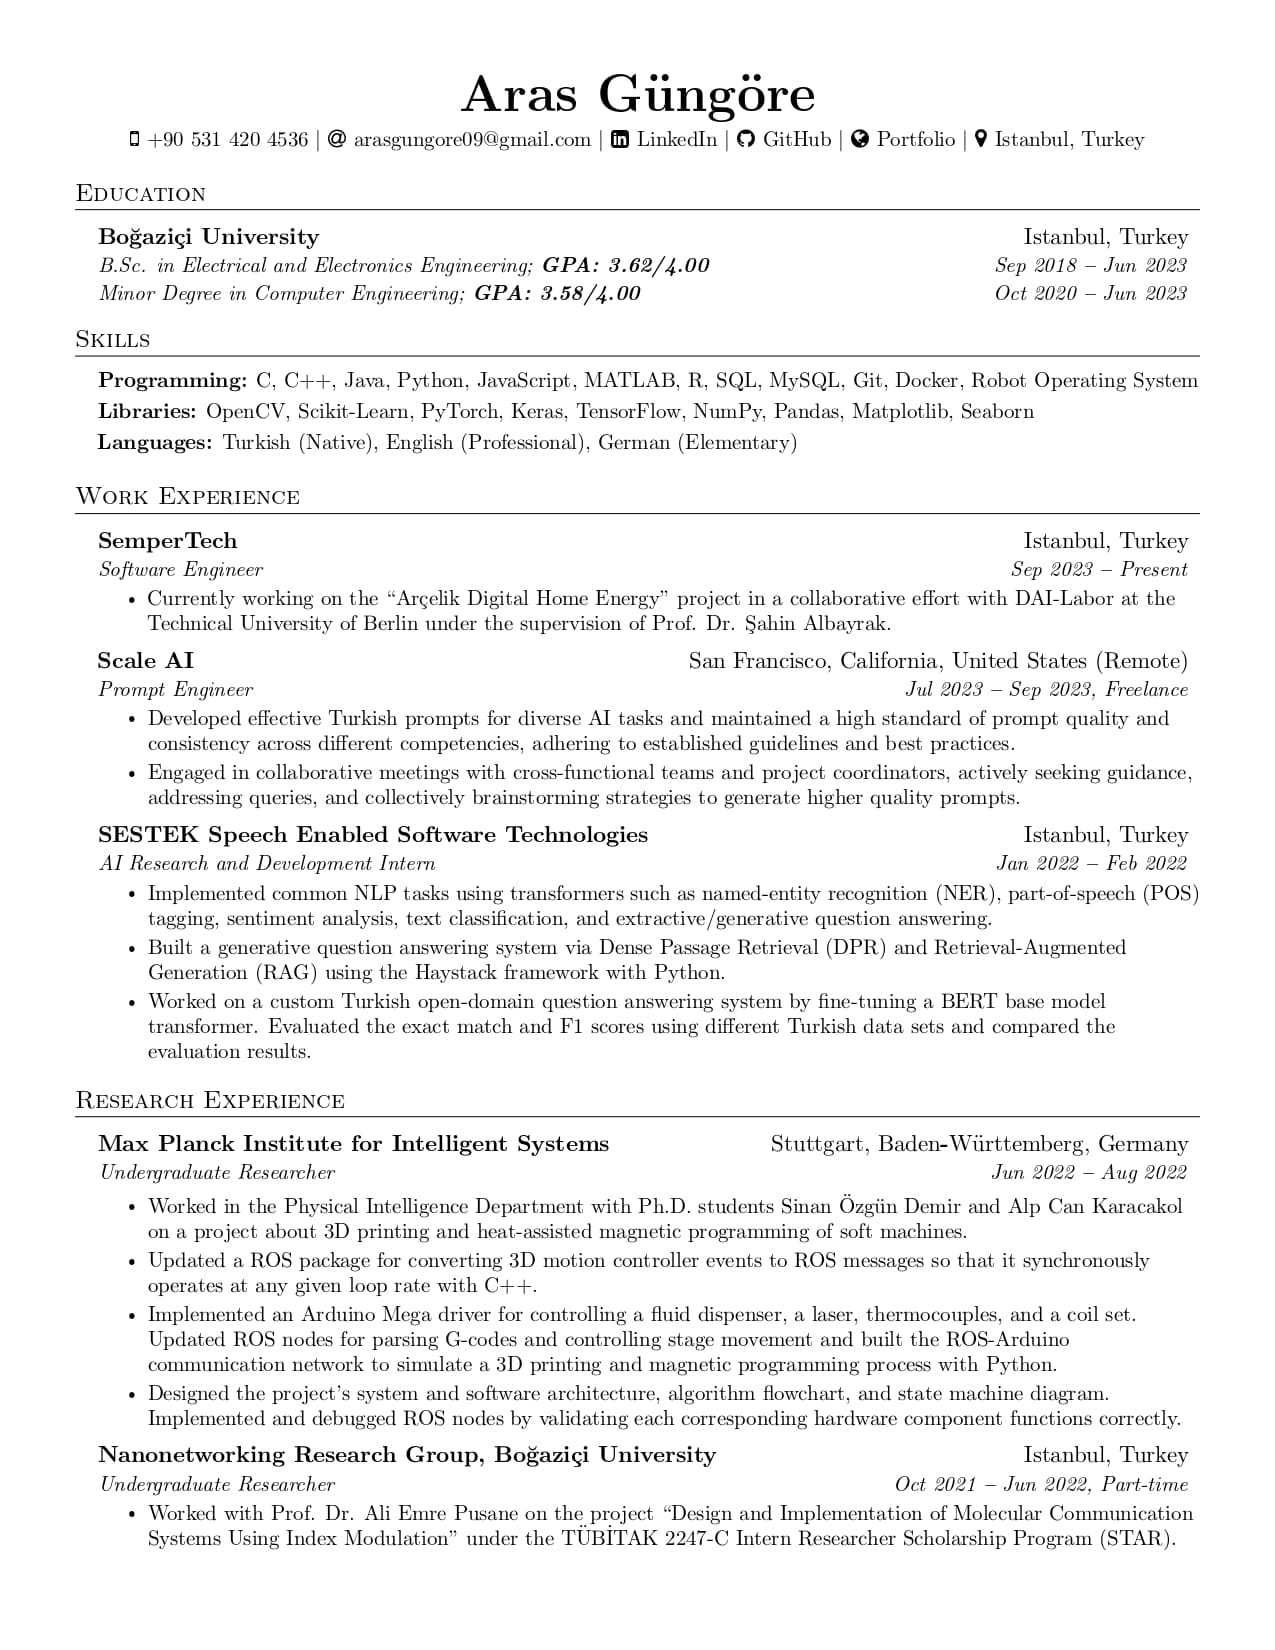
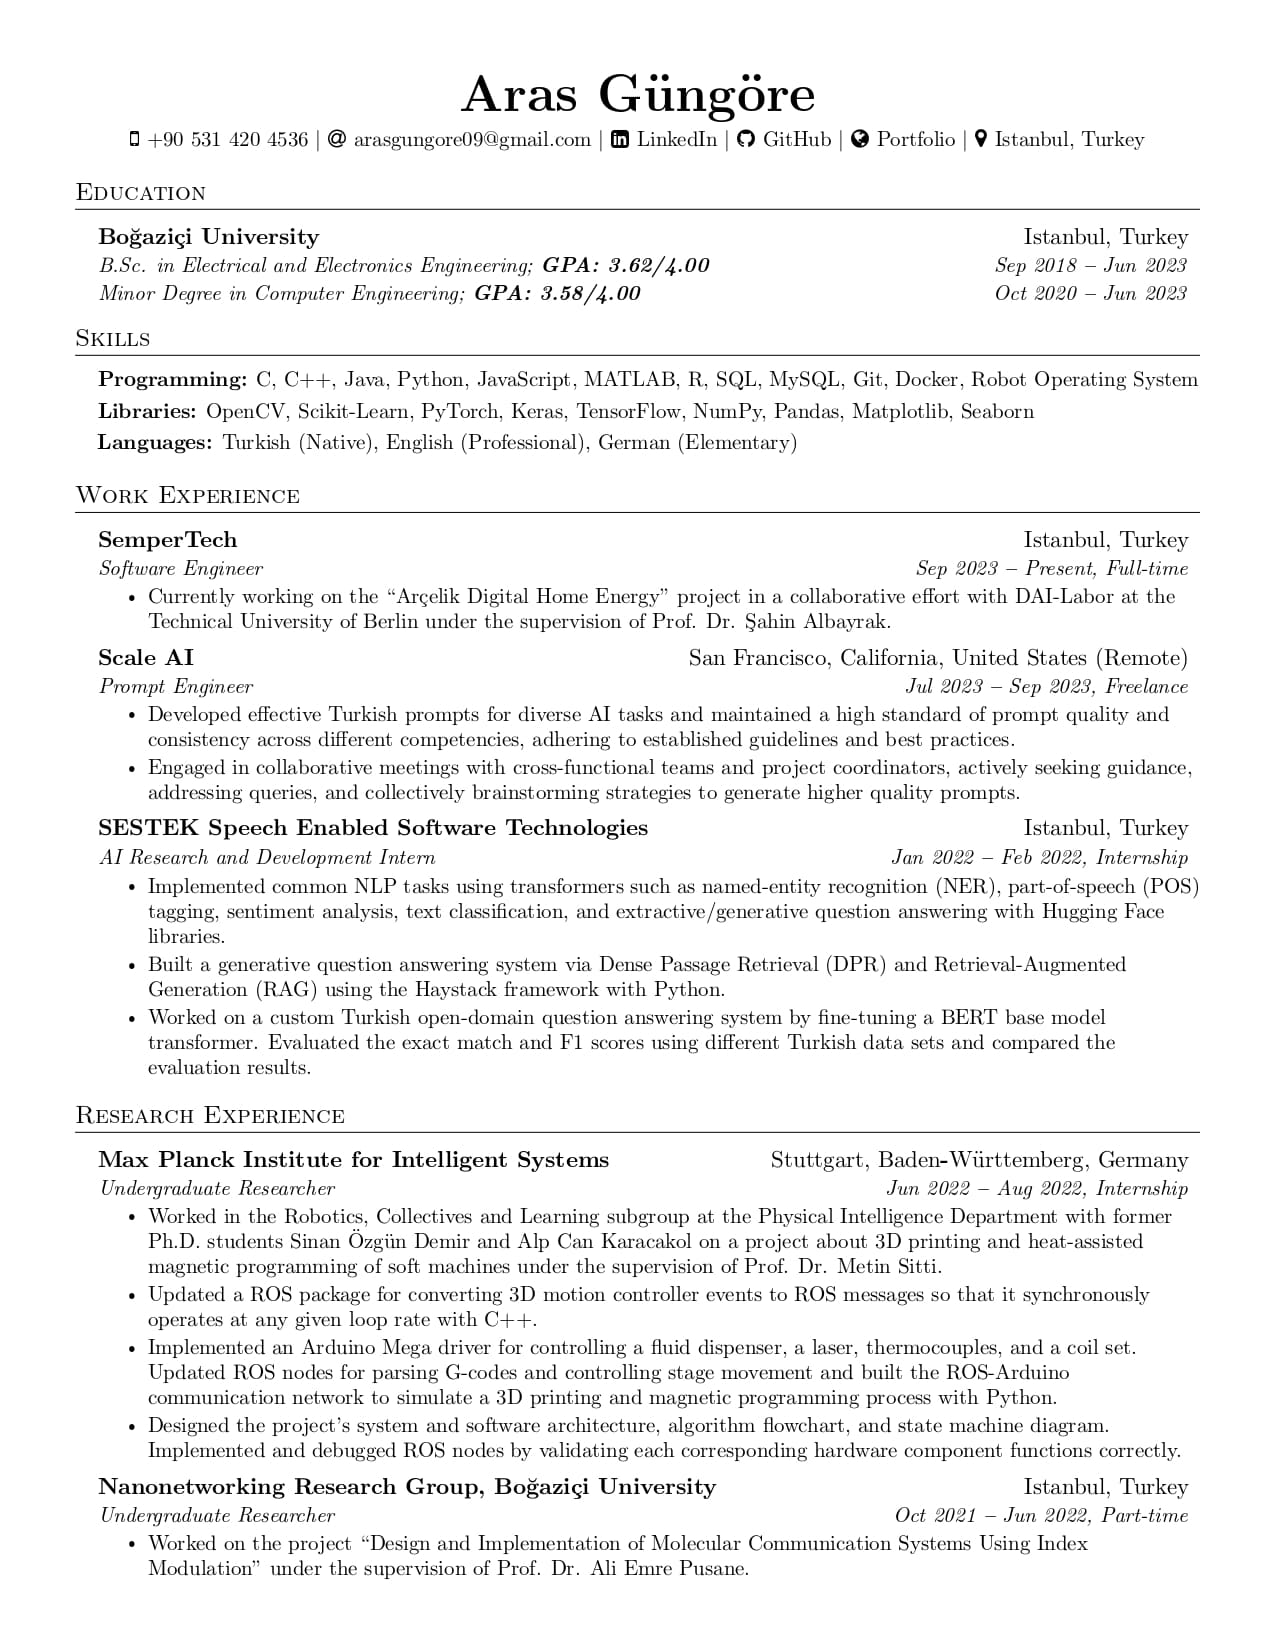
Updated CV

diff --git a/main.tex b/main.tex
@@ -205,7 +205,7 @@
 
     \resumeSubheading
       {SemperTech}{Istanbul, Turkey}
-      {Software Engineer}{Sep 2023 \textbf{--} Present}
+      {Software Engineer}{Sep 2023 \textbf{--} Present, Full-time}
         \resumeItemListStart
             \resumeItem{Currently working on the “Arçelik Digital Home Energy” project in a collaborative effort with DAI-Labor at the Technical University of Berlin under the supervision of Prof. Dr. Şahin Albayrak.}
         \resumeItemListEnd
@@ -221,16 +221,16 @@
     
     \resumeSubheading
       {SESTEK Speech Enabled Software Technologies}{Istanbul, Turkey}
-      {AI Research and Development Intern}{Jan 2022 \textbf{--} Feb 2022}
+      {AI Research and Development Intern}{Jan 2022 \textbf{--} Feb 2022, Internship}
         \resumeItemListStart
-            \resumeItem{Implemented common NLP tasks using transformers such as named-entity recognition (NER), part-of-speech (POS) tagging, sentiment analysis, text classification, and extractive/generative question answering.}
+            \resumeItem{Implemented common NLP tasks using transformers such as named-entity recognition (NER), part-of-speech (POS) tagging, sentiment analysis, text classification, and extractive/generative question answering with Hugging Face libraries.}
             \resumeItem{Built a generative question answering system via Dense Passage Retrieval (DPR) and Retrieval-Augmented Generation (RAG) using the Haystack framework with Python.}
             \resumeItem{Worked on a custom Turkish open-domain question answering system by fine-tuning a BERT base model transformer. Evaluated the exact match and F1 scores using different Turkish data sets and compared the evaluation results.}
         \resumeItemListEnd
     
     % \resumeSubheading
       % {Ankara Metropolitan Municipality}{Ankara, Turkey}
-      % {SCADA Engineering Intern}{Aug 2021 \textbf{--} Sep 2021}
+      % {SCADA Engineering Intern}{Aug 2021 \textbf{--} Sep 2021, Internship}
         % \resumeItemListStart
             % \resumeItem{Designed GSM/GPRS-based electrical control panels that are connected to local water pump automation systems. Pump station panels use digital output data received from the SCADA control center via RF transmission to control valves and pumps. Tank station panels are charged from the PV system and refill water tanks by signaling the pump station panel when the float switch is activated.}
             % \resumeItem{Implemented motor control circuits by reading their PLC ladder diagrams and analyzed the EPLAN project documentation, HMI, and hardware components of an RTU panel.}
@@ -239,9 +239,9 @@
     % \vspace{15pt}
     % \resumeSubheading
       % {Meteksan Defense Industry Inc.}{Ankara, Turkey}
-      % {Analog Design Engineering Intern}{Jul 2021 \textbf{--} Aug 2021}
+      % {Analog Design Engineering Intern}{Jul 2021 \textbf{--} Aug 2021, Internship}
         % \resumeItemListStart
-            % \resumeItem{Designed numerous analog circuits such as voltage-mode controlled buck converter, phase-shifted full-bridge isolated DC-DC converter, and EMI filters with LTspice. Integrated these circuits and implemented a 320 W power distribution unit to be used in a radar system's power circuit board.}
+            % \resumeItem{Designed and simulated numerous analog circuits such as voltage-mode controlled buck converter, phase-shifted full-bridge isolated DC-DC converter, and EMI filters with LTspice. Integrated these circuits and implemented a 320 W power distribution unit to be used in a radar system's power circuit board.}
             % \resumeItem{Researched real-world compatible electronic components to be used in such circuits including GaNFETs, high-side gate drivers, and Schottky diodes.}
             % \resumeItem{Assembled PCBs of both common and differential mode filters and used VNA Bode 100 to measure the cut-off frequencies.}
         % \resumeItemListEnd
@@ -258,9 +258,9 @@
   
     \resumeSubheading
       {Max Planck Institute for Intelligent Systems}{Stuttgart, Baden\textbf{-}Württemberg, Germany}
-      {Undergraduate Researcher}{Jun 2022 \textbf{--} Aug 2022}
+      {Undergraduate Researcher}{Jun 2022 \textbf{--} Aug 2022, Internship}
         \resumeItemListStart
-            \resumeItem{Worked in the Physical Intelligence Department with Ph.D. students Sinan Özgün Demir and Alp Can Karacakol on a project about 3D printing and heat-assisted magnetic programming of soft machines.}
+            \resumeItem{Worked in the Robotics, Collectives and Learning subgroup at the Physical Intelligence Department with former Ph.D. students Sinan Özgün Demir and Alp Can Karacakol on a project about 3D printing and heat-assisted magnetic programming of soft machines under the supervision of Prof. Dr. Metin Sitti.}
             \resumeItem{Updated a ROS package for converting 3D motion controller events to ROS messages so that it synchronously operates at any given loop rate with C++.}
             \resumeItem{Implemented an Arduino Mega driver for controlling a fluid dispenser, a laser, thermocouples, and a coil set. Updated ROS nodes for parsing G-codes and controlling stage movement and built the ROS-Arduino communication network to simulate a 3D printing and magnetic programming process with Python.}
             \resumeItem{Designed the project's system and software architecture, algorithm flowchart, and state machine diagram. Implemented and debugged ROS nodes by validating each corresponding hardware component functions correctly.}
@@ -272,8 +272,8 @@
       {Nanonetworking Research Group, Boğaziçi University}{Istanbul, Turkey}
       {Undergraduate Researcher}{Oct 2021 \textbf{--} Jun 2022, Part-time}
         \resumeItemListStart
-            \resumeItem{Worked with Prof. Dr. Ali Emre Pusane on the project “Design and Implementation of Molecular Communication Systems Using Index Modulation” under the TÜBİTAK 2247-C Intern Researcher Scholarship Program (STAR).}
-            \resumeItem{Simulated the Brownian motion of molecules in a SISO MCvD system and predicted simulation parameters such as receiver radius, diffusion coefficient, and transmitter-receiver distance using CNNs with Python.}
+            \resumeItem{Worked on the project “Design and Implementation of Molecular Communication Systems Using Index Modulation” under the supervision of Prof. Dr. Ali Emre Pusane.}
+            \resumeItem{Simulated the Brownian motion of molecules in a SISO MCvD system and predicted simulation parameters such as receiver radius, diffusion coefficient, and transmitter-receiver distance using CNNs with Keras and TensorFlow.}
             \resumeItem{Plotted the arrival of molecules per symbol duration in a SISO MCvD system using Binomial, Poisson, and Gaussian model approximations with MATLAB.}
             \resumeItem{Ran Monte Carlo simulations of the Gaussian model to encode/decode randomized binary sequences in a SISO MCvD system using BCSK modulation technique and calculated the bit error rate (BER) on Z-channel.}
         \resumeItemListEnd
@@ -288,15 +288,15 @@
   \vspace{2pt}
   \resumeSubHeadingListStart
     \small{\item{
-        \textbf{High Honors Degree:}{ Awarded to Bachelor alumni who have graduated with a GPA greater than or equal to 3.50 by Boğaziçi University.} \\ \vspace{3pt}
+        \textbf{High Honors Degree:}{ Awarded to Bachelor alumni who have graduated with a GPA greater than or equal to 3.50 by Boğaziçi University. (Jul 2023)} \\ \vspace{3pt}
+
+        \textbf{TÜBİTAK 2247-C Intern Researcher Scholarship:}{ Awarded to undergraduate students who take part in research projects carried out by the Scientific and Technological Research Council of Turkey (TÜBİTAK). (Dec 2021 \textbf{--} Jun 2022)} \\ \vspace{3pt}
     
-        \textbf{National University Admission Exam (YKS):}{ Ranked $75^{th}$ in Mathematics and Science among ca. 2.3 million candidates with a test score of 489.92/500.} \\ \vspace{3pt}
+        \textbf{National University Admission Exam (YKS):}{ Ranked $75^{th}$ in Mathematics and Science among ca. 2.3 million candidates with a test score of 489.92/500. (Jul 2018)} \\ \vspace{3pt}
         
-        \textbf{KYK Outstanding Success Scholarship:}{ Awarded to undergraduate students who have been ranked in the top 100 on National University Admission Exam by Higher Education Credit and Hostels Institution (KYK).} \\ \vspace{3pt}
+        \textbf{KYK Outstanding Success Scholarship:}{ Awarded to undergraduate students who have been ranked in the top 100 on National University Admission Exam by Higher Education Credit and Hostels Institution (KYK). (Sep 2018 \textbf{--} Jun 2023)} \\ \vspace{3pt}
         
-        \textbf{Boğaziçi University Success Scholarship:}{ Awarded to undergraduate students who have been ranked in the top 100 on National University Admission Exam by Boğaziçi University.} \\ \vspace{3pt}
-        
-        \textbf{TÜBİTAK 2247-C Intern Researcher Scholarship:}{ Awarded to undergraduate students who take part in research projects carried out by the Scientific and Technological Research Council of Turkey (TÜBİTAK).} \\ \vspace{3pt}
+        \textbf{Boğaziçi University Success Scholarship:}{ Awarded to undergraduate students who have been ranked in the top 100 on National University Admission Exam by Boğaziçi University. (Sep 2018 \textbf{--} Jun 2023)} \\ \vspace{3pt}
         
         % \textbf{Duolingo English Test (DET):}{ Overall Score: 135/160} \\ \vspace{3pt}
         
